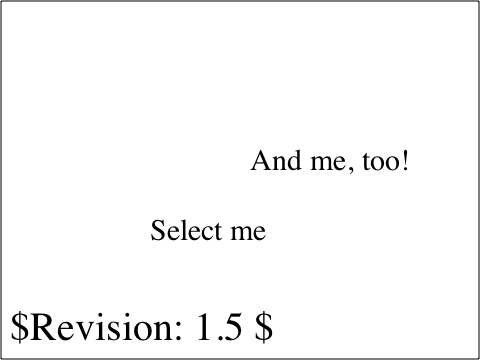
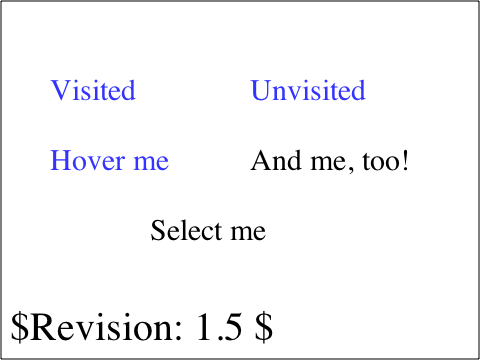
Reviewed by Nikolas Zimmermann.
http://bugs.webkit.org/show_bug.cgi?id=12500
        SVG fails to correctly handle all link style selectors
        http://bugs.webkit.org/show_bug.cgi?id=12567
        <text> elements ignore <a> children

        Allow <a> inside svg text and handle xlink:show.

Identifier: 16923@main
git-svn-id: https://svn.webkit.org/repository/webkit/trunk@20122 268f45cc-cd09-0410-ab3c-d52691b4dbfc

diff --git a/WebCore/rendering/SVGInlineFlowBox.cpp b/WebCore/rendering/SVGInlineFlowBox.cpp
@@ -31,6 +31,7 @@
 #include "KCanvasRenderingStyle.h"
 #include "RootInlineBox.h"
 #include "SVGLengthList.h"
+#include "SVGNames.h"
 #include "SVGPaintServer.h"
 #include "SVGResourceClipper.h"
 #include "SVGResourceFilter.h"
@@ -42,6 +43,8 @@ using std::min;
 using std::max;
 
 namespace WebCore {
+
+using namespace SVGNames;
 
 void SVGInlineFlowBox::paint(RenderObject::PaintInfo& paintInfo, int tx, int ty)
 {
@@ -146,7 +149,7 @@ static bool translateBox(InlineBox* box, int x, int y, bool topLevel)
     if (box->object()->isText()) {
         box->setXPos(box->xPos() + x);
         box->setYPos(box->yPos() + y);
-    } else {
+    } else if (!box->object()->element()->hasTagName(aTag)) {
         InlineFlowBox* flow = static_cast<InlineFlowBox*>(box);
         SVGTextPositioningElement* text = static_cast<SVGTextPositioningElement*>(box->object()->element());
 
@@ -187,24 +190,27 @@ static int placePositionedBoxesHorizontally(InlineFlowBox* flow, int x, int& lef
             x += text->width();
             mx = max(mx, x);
             amx = max(amx, x);
-        } else {
-            ASSERT(curr->object()->isInlineFlow());
+        } else if (curr->object()->isInlineFlow()) {
             InlineFlowBox* flow = static_cast<InlineFlowBox*>(curr);
-            SVGTextPositioningElement* text = static_cast<SVGTextPositioningElement*>(flow->object()->element());
-            x += (int)(text->dx()->getFirst().value());
-            if (text->x()->numberOfItems() > 0)
-                x = (int)(text->x()->getFirst().value() - xPos);
-            if (text->x()->numberOfItems() > 0 || text->y()->numberOfItems() > 0 ||
-                text->dx()->numberOfItems() > 0 || text->dy()->numberOfItems() > 0) {
-                seenPositionedElement = true;
-                needsWordSpacing = false;
-                int ignoreX, ignoreY;
-                x = placePositionedBoxesHorizontally(flow, x, mn, mx, ignoreX, ignoreY, needsWordSpacing, xPos, true);
-            } else if (seenPositionedElement) {
-                int ignoreX, ignoreY;
-                x = placePositionedBoxesHorizontally(flow, x, mn, mx, ignoreX, ignoreY, needsWordSpacing, xPos, false);
-            } else
+            if (flow->object()->element()->hasTagName(aTag)) {
                 x = placePositionedBoxesHorizontally(flow, x, mn, mx, amn, amx, needsWordSpacing, xPos, false);
+            } else {
+                SVGTextPositioningElement* text = static_cast<SVGTextPositioningElement*>(flow->object()->element());
+                x += (int)(text->dx()->getFirst().value());
+                if (text->x()->numberOfItems() > 0)
+                    x = (int)(text->x()->getFirst().value() - xPos);
+                if (text->x()->numberOfItems() > 0 || text->y()->numberOfItems() > 0 ||
+                    text->dx()->numberOfItems() > 0 || text->dy()->numberOfItems() > 0) {
+                    seenPositionedElement = true;
+                    needsWordSpacing = false;
+                    int ignoreX, ignoreY;
+                    x = placePositionedBoxesHorizontally(flow, x, mn, mx, ignoreX, ignoreY, needsWordSpacing, xPos, true);
+                } else if (seenPositionedElement) {
+                    int ignoreX, ignoreY;
+                    x = placePositionedBoxesHorizontally(flow, x, mn, mx, ignoreX, ignoreY, needsWordSpacing, xPos, false);
+                } else
+                    x = placePositionedBoxesHorizontally(flow, x, mn, mx, amn, amx, needsWordSpacing, xPos, false);
+            }
         }
     }
 
@@ -257,7 +263,7 @@ int placeSVGFlowHorizontally(InlineFlowBox* flow, int x, int& leftPosition, int&
 static void placeBoxesVerticallyWithAbsBaseline(InlineFlowBox* flow, int& heightOfBlock, int& minY, int& maxY, int& baseline, int yPos)
 {
     for (InlineBox* curr = flow->firstChild(); curr; curr = curr->nextOnLine()) {
-        if (curr->isInlineFlowBox()) {
+        if (curr->isInlineFlowBox() && !curr->object()->element()->hasTagName(aTag)) {
             SVGTextPositioningElement* text = static_cast<SVGTextPositioningElement*>(curr->object()->element());
             baseline += (int)(text->dy()->getFirst().value());
 

diff --git a/WebCore/ksvg2/svg/SVGAElement.cpp b/WebCore/ksvg2/svg/SVGAElement.cpp
@@ -1,6 +1,6 @@
 /*
     Copyright (C) 2004, 2005 Nikolas Zimmermann <wildfox@kde.org>
-                  2004, 2005 Rob Buis <buis@kde.org>
+                  2004, 2005, 2007 Rob Buis <buis@kde.org>
 
     This file is part of the KDE project
 
@@ -32,6 +32,8 @@
 #include "Frame.h"
 #include "FrameLoader.h"
 #include "MouseEvent.h"
+#include "PlatformMouseEvent.h"
+#include "RenderSVGInline.h"
 #include "RenderSVGContainer.h"
 #include "ResourceRequest.h"
 #include "SVGNames.h"
@@ -84,6 +86,9 @@ void SVGAElement::parseMappedAttribute(MappedAttribute* attr)
 
 RenderObject* SVGAElement::createRenderer(RenderArena* arena, RenderStyle* style)
 {
+    if (static_cast<SVGElement*>(parent())->isTextContent())
+        return new (arena) RenderSVGInline(this);
+
     return new (arena) RenderSVGContainer(this);
 }
 
@@ -93,17 +98,21 @@ void SVGAElement::defaultEventHandler(Event* evt)
     if ((evt->type() == EventNames::mouseupEvent && m_isLink)) {
         MouseEvent* e = static_cast<MouseEvent*>(evt);
 
-        if (e && e->button() == 2) {
+        if (e && e->button() == RightButton) {
             SVGStyledTransformableElement::defaultEventHandler(evt);
             return;
         }
 
-        String url = parseURL(href());
-
         String target = getAttribute(SVGNames::targetAttr);
-        if (e && e->button() == 1)
+        String xlinktarget = getAttribute(XLinkNames::showAttr);
+        if (e && e->button() == MiddleButton)
             target = "_blank";
+        else if (xlinktarget == "new" || target == "_blank")
+            target = "_blank";
+        else // default is replace/_self
+            target = "_self";
 
+        String url = parseURL(href());
         if (!evt->defaultPrevented())
             if (document() && document()->frame())
                 document()->frame()->loader()->urlSelected(document()->completeURL(url), target, evt);
@@ -113,6 +122,15 @@ void SVGAElement::defaultEventHandler(Event* evt)
 
     SVGStyledTransformableElement::defaultEventHandler(evt);
 }
+
+bool SVGAElement::childShouldCreateRenderer(Node* child) const
+{
+    if (static_cast<SVGElement*>(parent())->isTextContent())
+        return child->isTextNode();
+
+    return SVGElement::childShouldCreateRenderer(child);
+}
+
 
 } // namespace WebCore
 

diff --git a/WebCore/ksvg2/svg/SVGTextElement.cpp b/WebCore/ksvg2/svg/SVGTextElement.cpp
@@ -121,8 +121,9 @@ RenderObject* SVGTextElement::createRenderer(RenderArena* arena, RenderStyle* st
 
 bool SVGTextElement::childShouldCreateRenderer(Node* child) const
 {
-    if (child->isTextNode() || child->hasTagName(SVGNames::tspanTag) ||
-        child->hasTagName(SVGNames::trefTag))
+    if (child->isTextNode() || child->hasTagName(SVGNames::tspanTag)
+        || child->hasTagName(SVGNames::aTag)
+        || child->hasTagName(SVGNames::trefTag))
         return true;
     return false;
 }

diff --git a/WebCore/ksvg2/svg/SVGElement.h b/WebCore/ksvg2/svg/SVGElement.h
@@ -203,6 +203,7 @@ namespace WebCore {
         virtual bool isSVG() const { return false; }
         virtual bool isFilterEffect() const { return false; }
         virtual bool isGradientStop() const { return false; }
+        virtual bool isTextContent() const { return false; }
 
         virtual bool isShadowNode() const { return m_shadowParent; }
         virtual Node* shadowParentNode() { return m_shadowParent; }

diff --git a/WebCore/ksvg2/svg/SVGTextContentElement.h b/WebCore/ksvg2/svg/SVGTextContentElement.h
@@ -48,6 +48,7 @@ namespace WebCore {
         virtual ~SVGTextContentElement();
         
         virtual bool isValid() const { return SVGTests::isValid(); }
+        virtual bool isTextContent() const { return true; }
 
         // 'SVGTextContentElement' functions
         long getNumberOfChars() const;

diff --git a/WebCore/ksvg2/svg/SVGAElement.h b/WebCore/ksvg2/svg/SVGAElement.h
@@ -53,6 +53,8 @@ namespace WebCore {
 
         virtual void defaultEventHandler(Event *evt);
 
+        virtual bool childShouldCreateRenderer(Node*) const;
+
     protected:
         virtual const SVGElement* contextElement() const { return this; }
 
